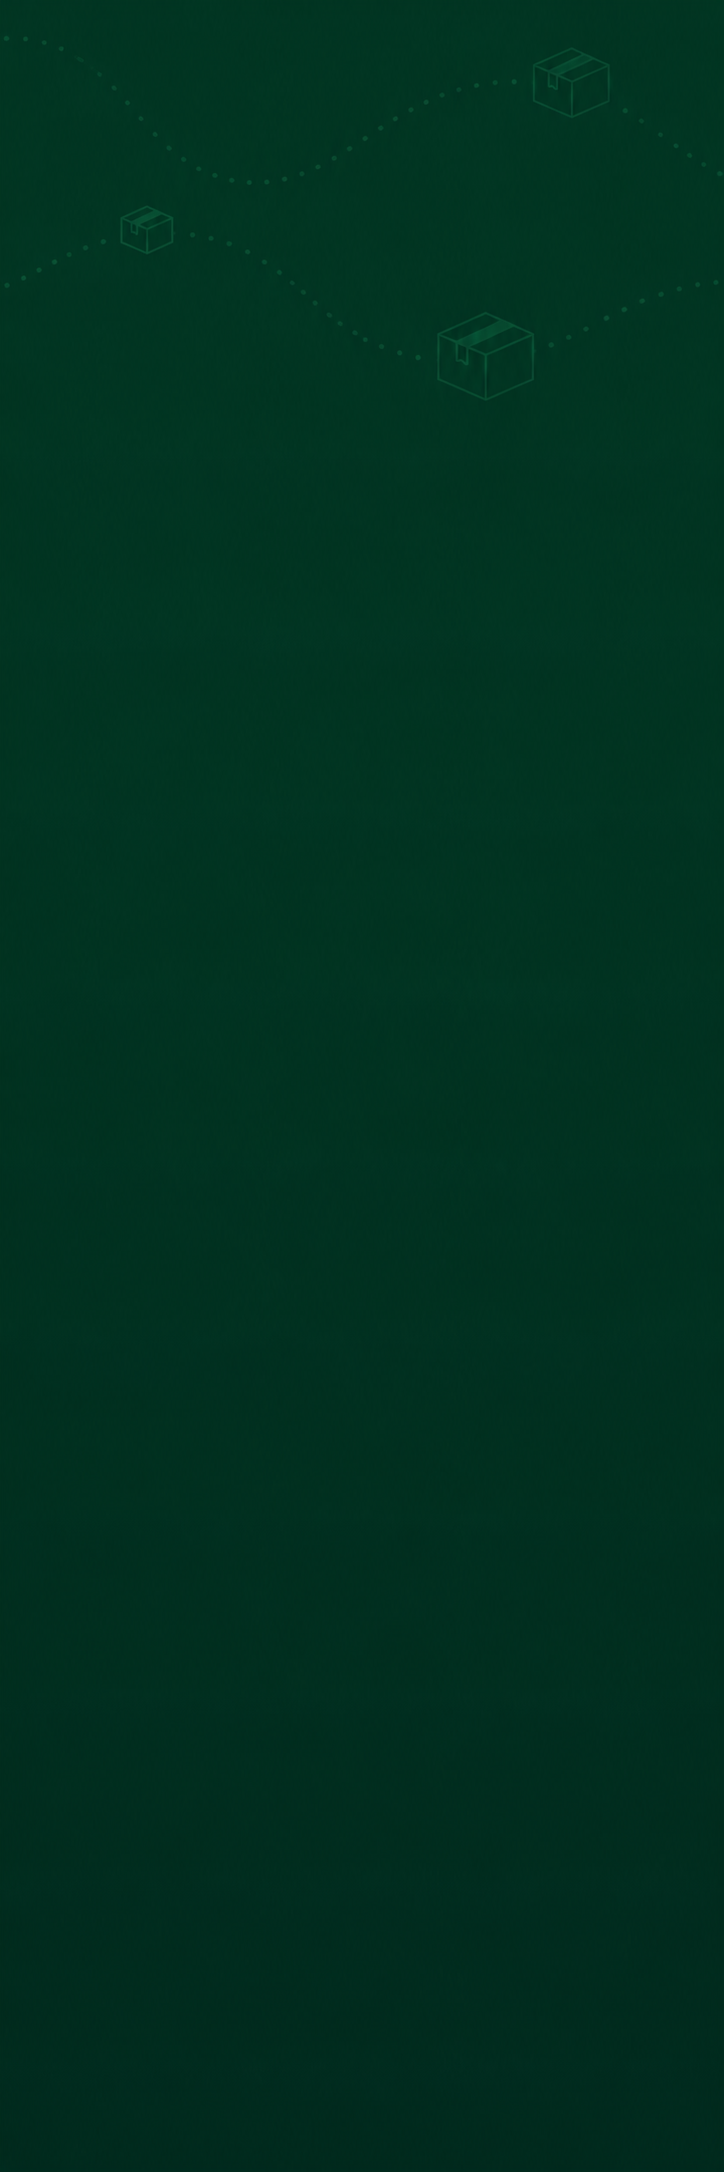
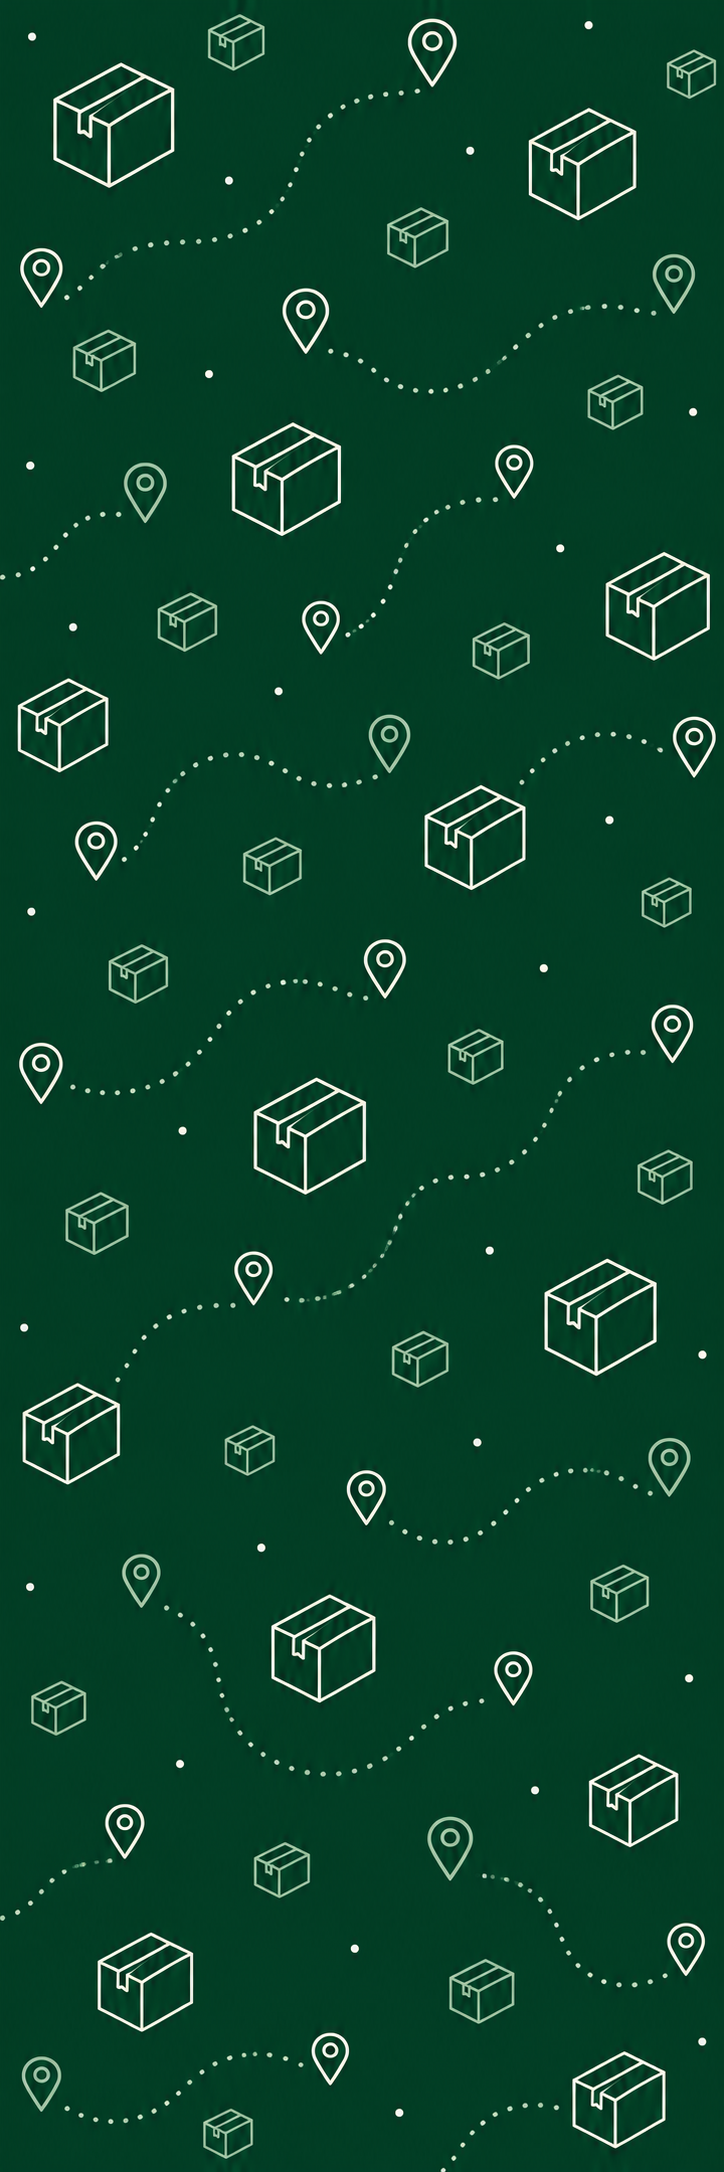
added background images

diff --git a/queues-and-events-main/frontend/src/components/ReueseableServiceTemplate/PageBanner.css b/queues-and-events-main/frontend/src/components/ReueseableServiceTemplate/PageBanner.css
@@ -1,0 +1,39 @@
+.page-banner {
+  min-height: 200px;
+  margin-bottom: var(--space-xl);
+  padding: var(--space-2xl);
+  border: 1px solid var(--color-border);
+  border-radius: var(--radius-card);
+
+  background-color: var(--color-card);
+  background-image:
+    linear-gradient(
+      to right,
+      var(--color-card) 35%,
+      color-mix(in srgb, var(--color-card) 25%, transparent)
+    ),
+    url('../../assets/dashboard-background.png');
+  background-position: center, right bottom;
+  background-size: 100% 100%, auto 100%;
+  background-repeat: no-repeat;
+}
+
+.dashboard-content .page-banner h1 {
+  margin: 0;
+  color: var(--color-heading);
+  font-family: var(--font-heading);
+  font-size: var(--text-title);
+  line-height: 1.15;
+}
+
+.dashboard-content .page-banner p {
+  margin: var(--space-sm) 0 0;
+  color: var(--color-text-muted);
+}
+
+@media (max-width: 600px) {
+  .page-banner {
+    min-height: auto;
+    background-image: none;
+  }
+}

diff --git a/queues-and-events-main/frontend/src/components/Dashboard/DashboardHeader/DashboardHeader.css b/queues-and-events-main/frontend/src/components/Dashboard/DashboardHeader/DashboardHeader.css
@@ -1,10 +1,30 @@
+
+
+
 /* Put the title on the left and the controls on the right.
    Title typography is already defined in App.css. */
 .dashboard-header {
   display: flex;
   align-items: flex-start;
   justify-content: space-between;
-  gap: 20px;
+  gap: var(--space-xl);
+
+  min-height: 200px;
+  padding: var(--space-2xl);
+  border: 1px solid var(--color-border);
+  border-radius: var(--radius-card);
+
+  background-color: var(--color-card);
+  background-image:
+    linear-gradient(
+      to right,
+      var(--color-card) 35%,
+      color-mix(in srgb, var(--color-card) 25%, transparent)
+    ),
+    url('../../../assets/dashboard-background.png');
+  background-position: center, right bottom;
+  background-size: 100% 100%, auto 100%;
+  background-repeat: no-repeat;
 }
 
 /* Stack account information above the refresh button. */

diff --git a/queues-and-events-main/frontend/src/components/ReueseableServiceTemplate/ServicePage.jsx b/queues-and-events-main/frontend/src/components/ReueseableServiceTemplate/ServicePage.jsx
@@ -1,5 +1,6 @@
 import { useState } from 'react'
 import './ServicePage.css'
+import './PageBanner.css'
 
 export default function ServicePage({
   title,
@@ -37,10 +38,10 @@ export default function ServicePage({
   return (
     <section className={`service-page ${title.toLowerCase()}-page`}>
       {/* 1. Page heading */}
-      <header className="service-page-header">
-        <h1>{title}</h1>
-        <p>{description}</p>
-      </header>
+    <header className="service-page-header page-banner">
+      <h1>{title}</h1>
+      <p>{description}</p>
+    </header>
 
       {/* 2. Optional summary cards */}
       {summaries.length > 0 && (

diff --git a/queues-and-events-main/frontend/src/components/Dashboard/Sidebar/Sidebar.css b/queues-and-events-main/frontend/src/components/Dashboard/Sidebar/Sidebar.css
@@ -9,7 +9,13 @@
 
   padding: var(--space-3xl) var(--space-sm);
 background-color: var(--color-sidebar-end);
-background-image: url('../../../assets/sidebar-background.png');
+background-image:
+   linear-gradient(
+     to bottom,
+     color-mix(in srgb, var(--color-sidebar) 80%, transparent) 75%,
+     color-mix(in srgb, var(--color-sidebar) 55%, transparent)
+   ),
+ url('../../../assets/sidebar-background.png');
 background-position: center top;
 background-repeat: no-repeat;
 background-size: cover;

diff --git a/queues-and-events-main/frontend/src/App.css b/queues-and-events-main/frontend/src/App.css
@@ -109,3 +109,21 @@
     padding: var(--space-lg);
   }
 }
+
+
+.overview-body {
+  margin-top: var(--space-lg);
+  padding: var(--space-lg);
+  padding-bottom: clamp(80px, 11vw, 160px);
+  border-radius: var(--radius-card);
+
+  background-color: var(--color-background);
+  background-image: url('./assets/background.png');
+  background-position: right bottom;
+  background-size: 100% auto;
+  background-repeat: no-repeat;
+}
+
+.overview-body > .summary-grid {
+  margin-top: 0;
+}

diff --git a/queues-and-events-main/frontend/src/pages/CustomersPage.jsx b/queues-and-events-main/frontend/src/pages/CustomersPage.jsx
@@ -65,7 +65,10 @@ export default function CustomersPage() {
       className="customer-page"
       aria-labelledby="customer-heading"
     >
-      <h2 id="customer-heading">Customers</h2>
+      <header className="page-banner">
+        <h1 id="customer-heading">Customers</h1>
+        <p>Manage customer accounts and view related activity.</p>
+      </header>
 
       {/* Search */}
       <label className="customer-search">

diff --git a/queues-and-events-main/frontend/src/pages/ProductsPage.jsx b/queues-and-events-main/frontend/src/pages/ProductsPage.jsx
@@ -48,7 +48,7 @@ export default function ProductsPage() {
 
   return (
     <section className="product-page" aria-labelledby="product-heading">
-      <header className="product-page-header">
+      <header className="product-page-header page-banner">
         <h1 id="product-heading">Products</h1>
         <p>Browse and manage products available for sale in your store.</p>
       </header>

diff --git a/queues-and-events-main/frontend/src/App.jsx b/queues-and-events-main/frontend/src/App.jsx
@@ -36,6 +36,7 @@ export default function App() {
         {activePage === 'overview' && (
           <>
             <DashboardHeader />
+            <div className="overview-body">
             <SummaryGrid />
 
             <div className="dashboard-row">
